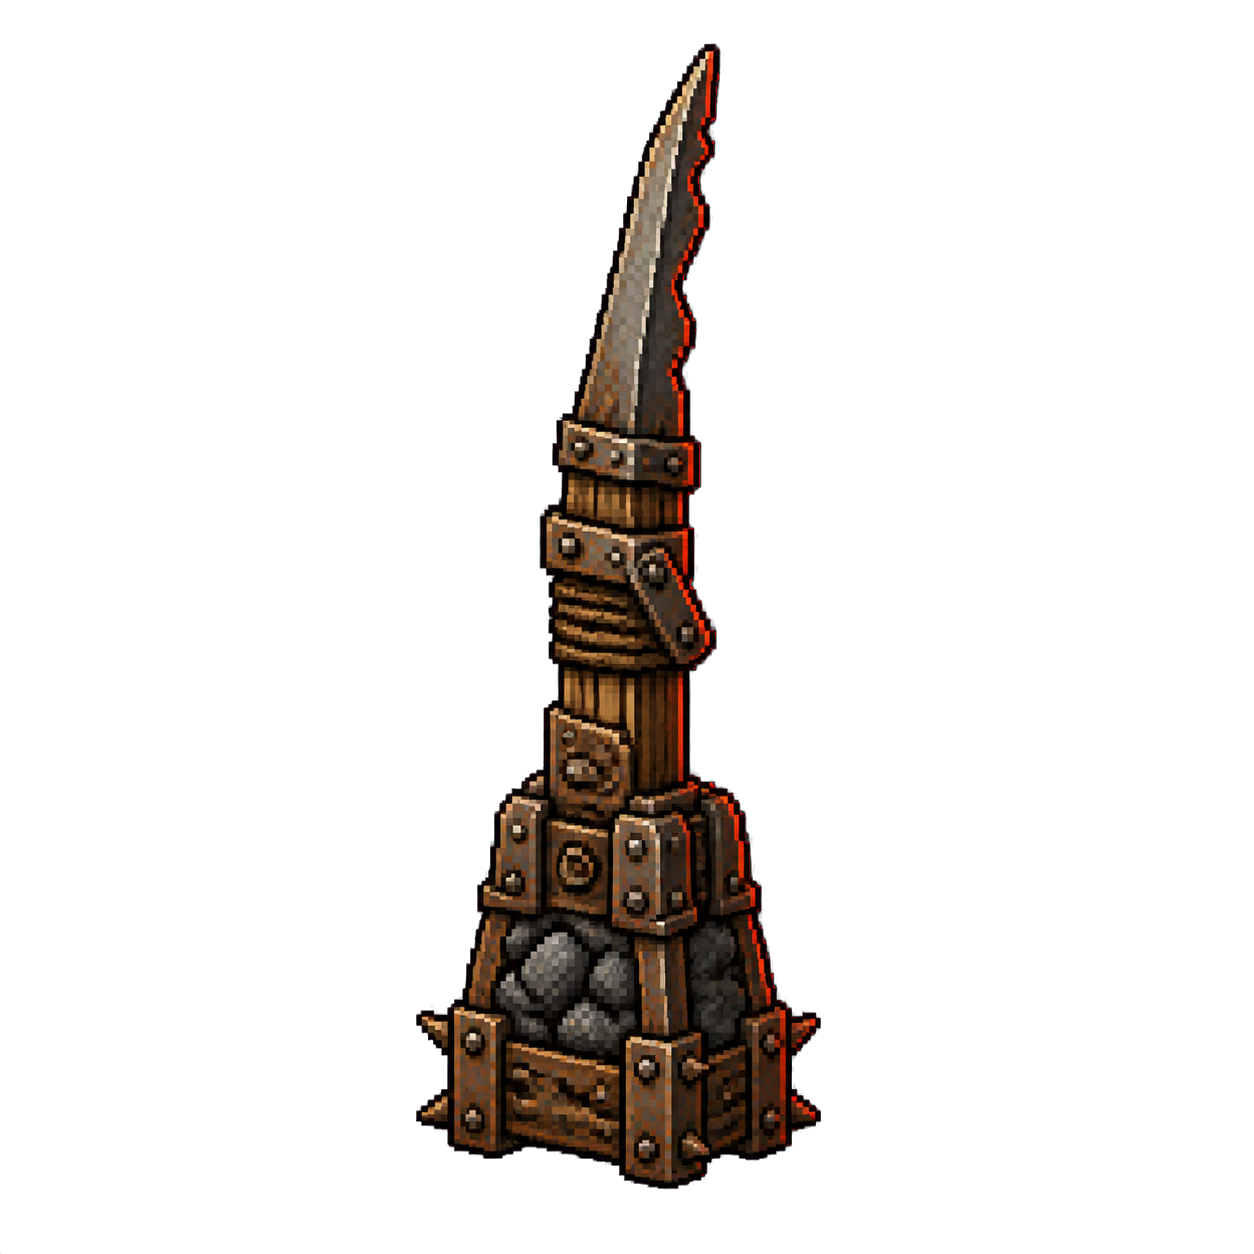
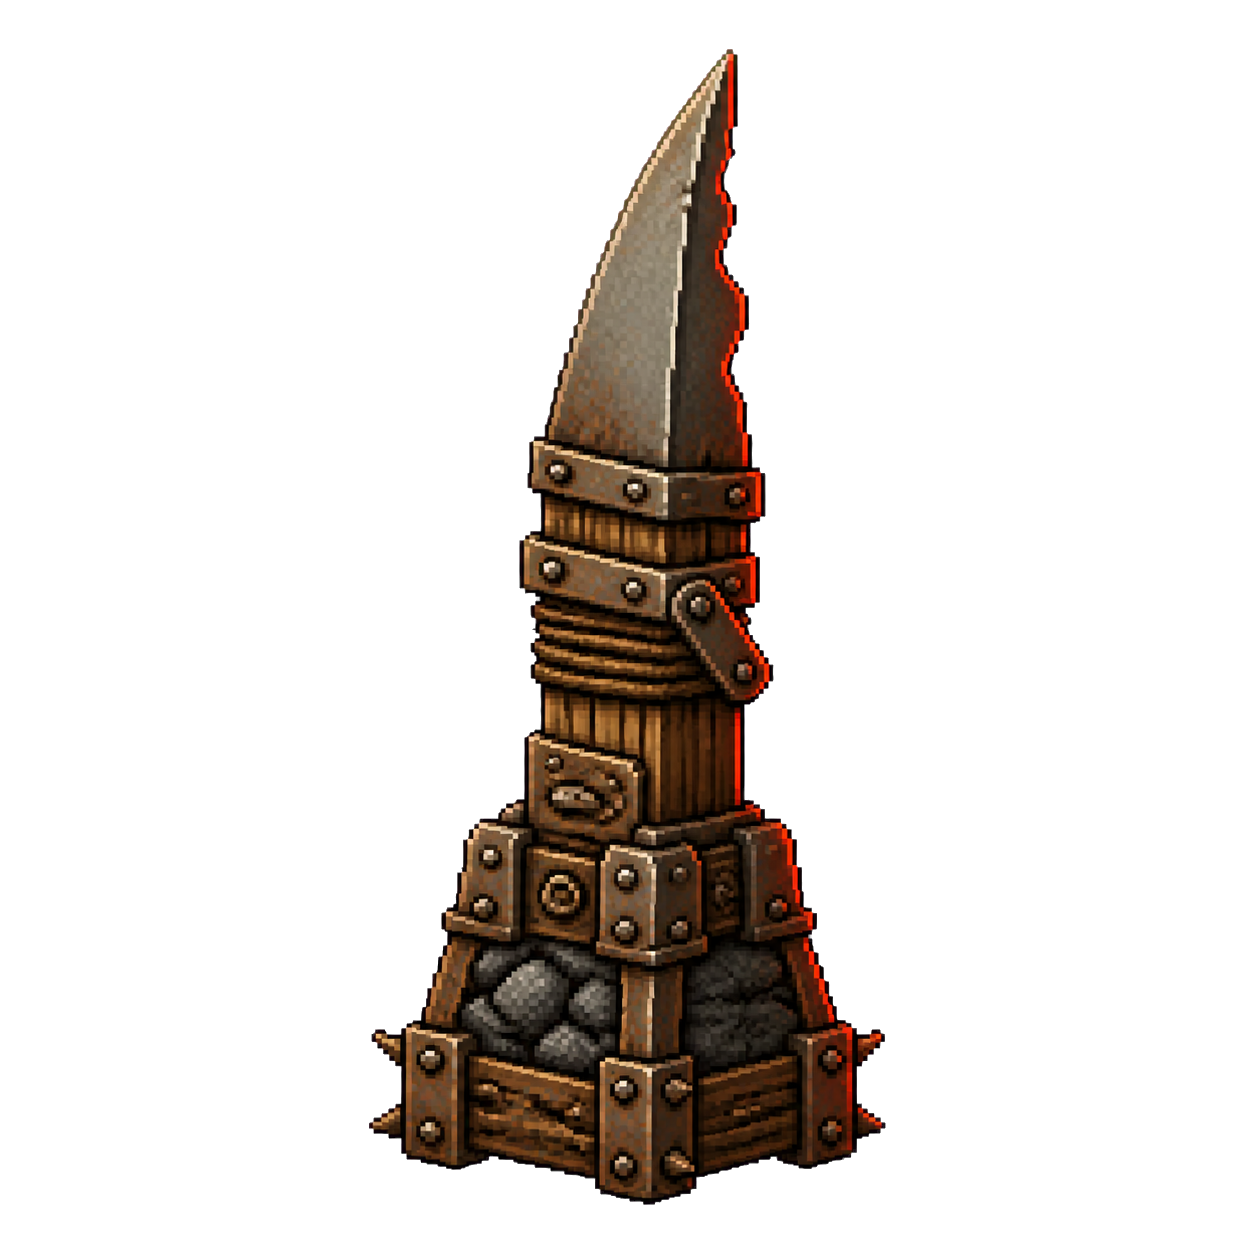
Refine Minecart hazard art proportions and rendering

Changed region(s): [[0.2799, 0.0311, 0.7153, 0.9641]]

diff --git a/src/game/scene.ts b/src/game/scene.ts
@@ -811,6 +811,31 @@ export class AviaryScene extends Phaser.Scene {
 
       if (rect.kind === "thorns" || rect.kind === "barbs") {
         const ceiling = rect.attachment === "ceiling" || rect.flipY === true;
+        if (rect.kind === "thorns" && family.emphasis?.clusteredThorns) {
+          const centerX = rect.x + rect.w / 2;
+          const surfaceY = this.terrainSurfaceYAt(centerX, ceiling);
+          const normal = this.terrainInwardNormalAt(centerX, ceiling);
+          const rotation = spikeRotationForNormal(normal.x, normal.y);
+          const warningEdge = takeSprite(`${texturePrefix}-thorn`);
+          const cluster = takeSprite(`${texturePrefix}-thorn`);
+          if (warningEdge && cluster) {
+            warningEdge
+              .setOrigin(0.5, 1)
+              .setDisplaySize(rect.w + 11, rect.h + 5)
+              .setPosition(Math.round(centerX), Math.round(surfaceY))
+              .setRotation(rotation)
+              .setAlpha(0.46)
+              .setTint(COLORS.coral)
+              .setTintMode(Phaser.TintModes.FILL);
+            cluster
+              .setOrigin(0.5, 1)
+              .setDisplaySize(rect.w + 7, rect.h + 2)
+              .setPosition(Math.round(centerX), Math.round(surfaceY))
+              .setRotation(rotation);
+            this.authoredRects.add(rect);
+          }
+          continue;
+        }
         let complete = true;
         for (const point of spikeClusterLayout(rect.w)) {
           const centerX = rect.x + point.offset + point.width / 2;

diff --git a/src/game/interactive-art.ts b/src/game/interactive-art.ts
@@ -26,6 +26,7 @@ export interface InteractiveArtFamily {
     pillarWidthBonus?: number;
     shutterWidthBonus?: number;
     shutterWarning?: boolean;
+    clusteredThorns?: boolean;
   };
 }
 
@@ -48,7 +49,7 @@ export const INTERACTIVE_ART: readonly InteractiveArtFamily[] = [
     slug: "abandoned-minecart",
     assets: [...common, "cart", "spinner", "shutter"],
     hazards: { thorns: "thorn", barbs: "barb", cart: "cart", spinner: "spinner", shutter: "shutter" },
-    emphasis: { spikeWidthBonus: 4, pillarWidthBonus: 4, shutterWidthBonus: 4, shutterWarning: true },
+    emphasis: { spikeWidthBonus: 4, pillarWidthBonus: 8, shutterWidthBonus: 4, shutterWarning: true, clusteredThorns: true },
   },
   { slug: "ashen", assets: [...common, "ember", "beak", "spinner", "shutter"], hazards: { thorns: "thorn", barbs: "barb", ember: "ember", beak: "beak", spinner: "spinner", shutter: "shutter" } },
   { slug: "underworld", assets: [...common, "flame", "flame-warning", "spinner", "shutter"], hazards: { thorns: "thorn", barbs: "barb", flame: "flame", spinner: "spinner", shutter: "shutter" } },

diff --git a/tests/model.test.ts b/tests/model.test.ts
@@ -158,9 +158,10 @@ describe("birdddddd model", () => {
     const minecartArt = INTERACTIVE_ART[6];
     expect(minecartArt?.emphasis).toMatchObject({
       spikeWidthBonus: 4,
-      pillarWidthBonus: 4,
+      pillarWidthBonus: 8,
       shutterWidthBonus: 4,
       shutterWarning: true,
+      clusteredThorns: true,
     });
     const lift = CHUNKS.find((chunk) => chunk.id === "minecart-lift");
     expect(lift?.hazards.filter((hazard) => hazard.kind === "shutter").map(({ w, h }) => ({ w, h }))).toEqual([

diff --git a/progress.md b/progress.md
@@ -100,3 +100,4 @@ Original prompt: Implement the complete “Impossible Aviary — Gameplay and Ar
 2026-08-14: Began the remaining-biome interactive-art rollout with a data-driven chapter asset manifest and renderer. Marble Cave, Violet Chasm, Underground Corruption, and Abandoned Minecart now have dedicated safe platforms/pillars, mounted hazards, and biome-specific mechanisms (marble crusher, crystal/shutter, corruption spore/rib gate, and cart/rail machinery). Collision data remains deterministic and independent from the richer sprites; 34 model tests and TypeScript passed after the renderer migration.
 2026-08-14: Completed the remaining-biome interactive-art rollout. Ashen Depths now uses basalt/chain platforms, obsidian hazards, ember machinery, and furnace jaws; Underworld uses gothic fortress terrain, infernal mechanisms, and separate warning/active vent art. Six blended safe threshold landmarks dress the passages from Sunken Dunes through Underworld. TypeScript, 35 tests, and the production build pass; live chapter, specialty-hazard, and transition captures were inspected without browser errors.
 2026-08-14: Added a Minecart-specific visual-emphasis profile after the authored rail assets proved too narrow at gameplay scale. Rail spikes gain four logical pixels of visual width, safe gate pillars gain four, and lethal moving lift walls gain four plus a larger pulsing coral silhouette; deterministic collision rectangles are unchanged. TypeScript, 36 tests, and the production build pass before browser verification.
+2026-08-14: Replaced the stretched Minecart spike/barb/gate art after visual feedback showed the first width adjustment made the proportions worse. Thorns are now one broad three-wedge rail cluster instead of repeated compressed cluster sprites, barbs use a heavy broken-rail blade, and safe gate pillars use a full-width reinforced timber wall rendered 16 logical pixels wide over the unchanged 6-pixel collision body. TypeScript, 36 tests, and the production build pass; browser capture was intentionally skipped because Eric will visually verify local changes.
